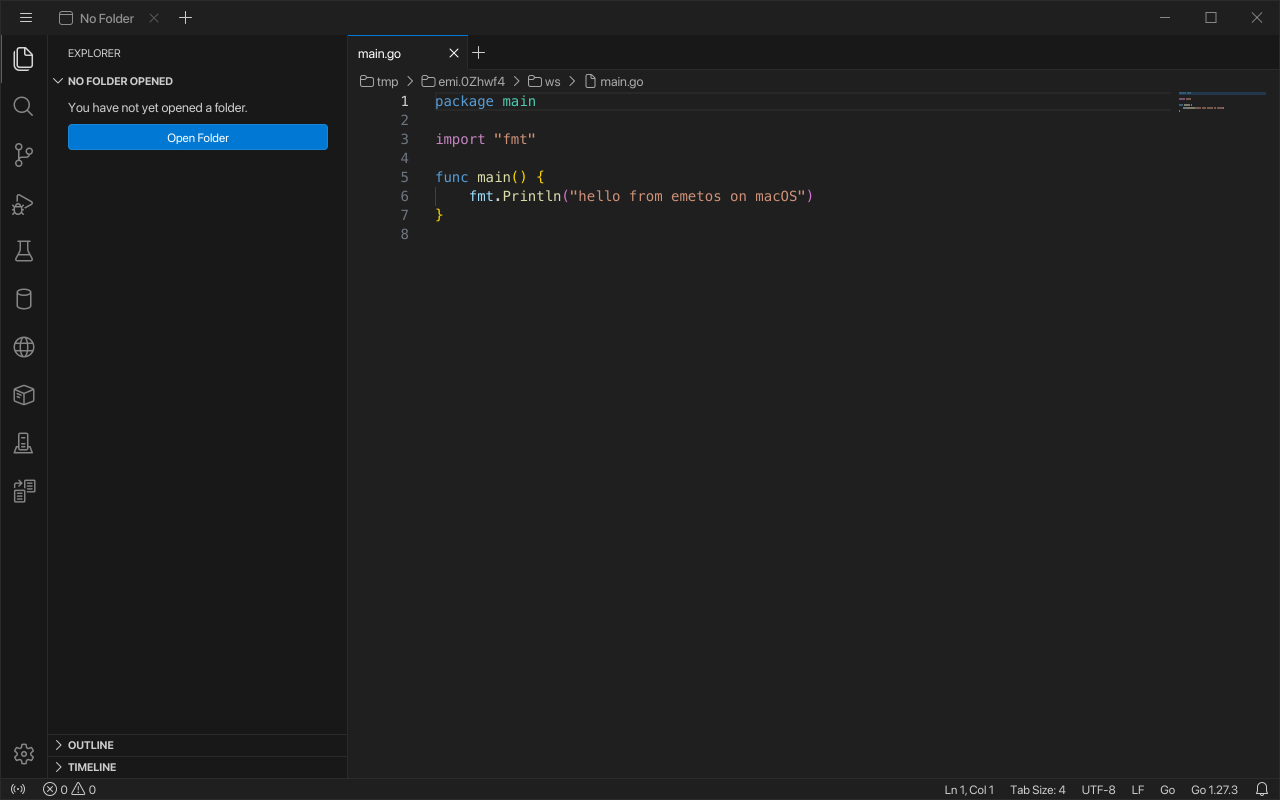
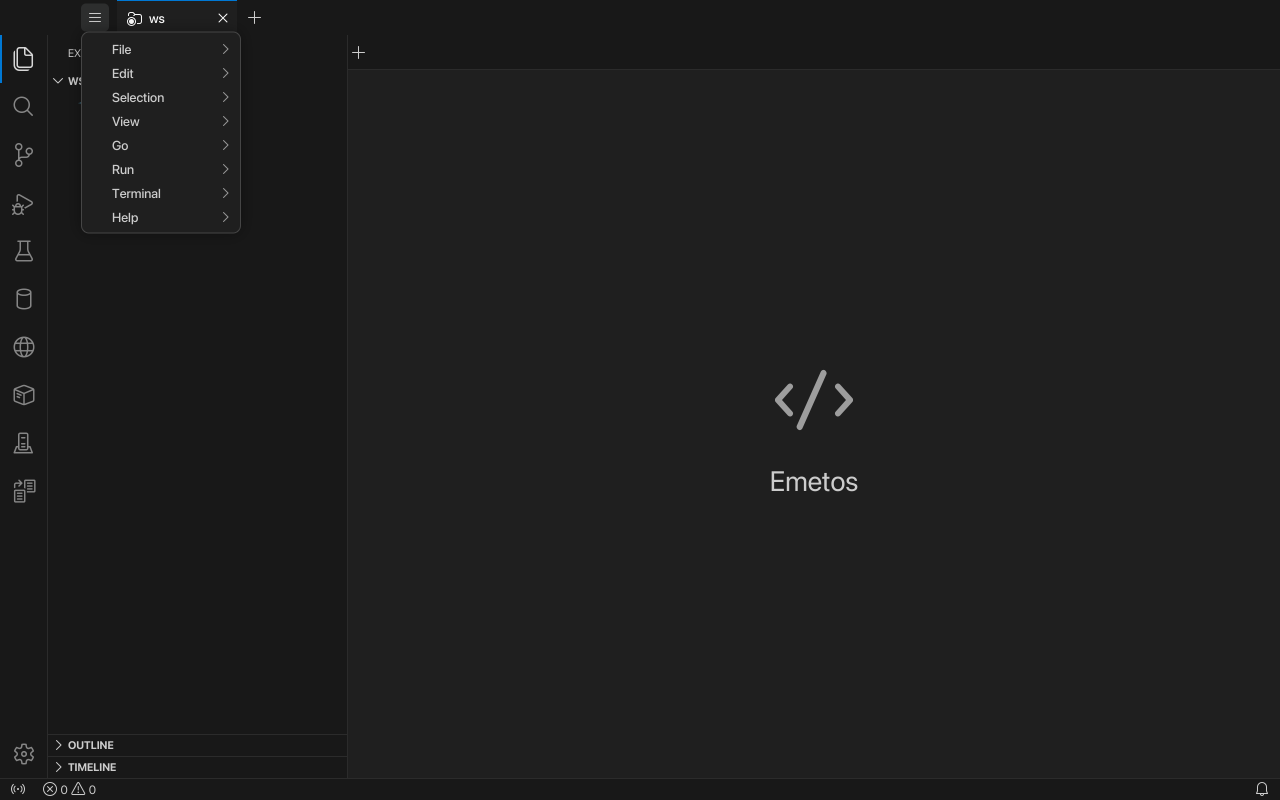
Upgrade Glutter to v1.16.2: one set of window buttons on macOS
On macOS the title bar of Emetos was under the red, yellow and green buttons
of the window (the menu button could not be pressed) and drew its own
minimize, maximize and close as well. Glutter 1.16.2 leaves the buttons to
the system and starts the bar after them.

diff --git a/cmd/emetos/main.go b/cmd/emetos/main.go
@@ -392,7 +392,7 @@ func describe(err error) string {
 // a checkout that Go cannot stamp (Go reports "(devel)" or nothing). A build made by `go install
 // ...@v1.0.0` or from a tagged checkout carries its tag, which is printed instead, so this changes only
 // when the next development cycle starts.
-const devVersion = "v1.4.1-dev"
+const devVersion = "v1.4.2-dev"
 
 // versionString is the version line of --version: the module version and VCS
 // revision from the build, and the Go version and platform.

diff --git a/README.md b/README.md
@@ -109,6 +109,7 @@ Emetos runs on macOS 12 or newer, on Apple silicon and Intel, with the same one 
 
 What is the same: the editor, the settings and key bindings files (in `~/.config/emetos`, `~/.local/state/emetos` and `~/.cache/emetos`: the XDG folders, as on Linux, with `XDG_*` honored), language servers, the debugger, Git, the terminal (in a pseudo-terminal), the containers (Docker, and Podman on a socket you give), the databases and Remote Work. What differs, and what is not done:
 
+- **Title bar.** The window has the red, yellow and green buttons of macOS at the left of Emetos's own title bar (the screenshot, which the program takes of itself, does not show them); the menu button and the workspace tabs start to the right of them, and the bar draws no minimize, maximize and close of its own (Glutter 1.16.2).
 - **Application menu.** `emetos --install-launcher` makes `~/Applications/Emetos.app`, a small application bundle (the icon as an `.icns` file and a launcher script that runs the program you ran); `emetos --uninstall-launcher` removes it. `scripts/install-desktop.sh` is for Linux.
 - **Shortcuts** are VS Code's Linux and Windows ones, with **Ctrl** where a Mac user expects Cmd (Ctrl+S saves, Ctrl+P opens Quick Open). A set of Mac shortcuts with Cmd is not made yet; rebind in `keybindings.json`.
 - **Changes on disk** are found by checking the watched folders every few seconds (there is no kqueue or FSEvents watcher yet), without the warning that Linux shows when it has to poll. A big folder costs more than inotify does.
